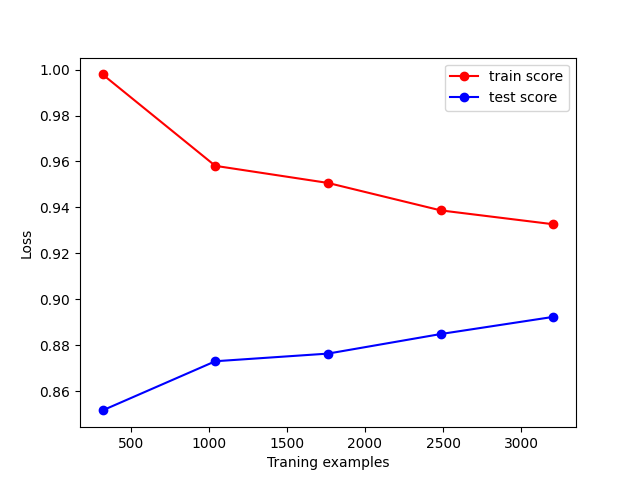
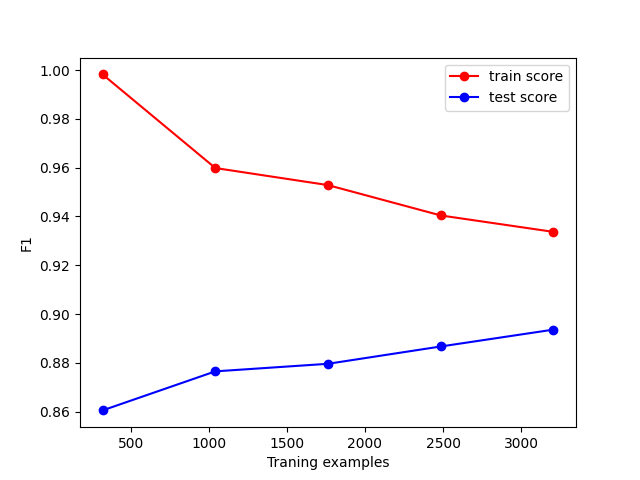
update

diff --git a/B1/model_b1.py b/B1/model_b1.py
@@ -13,7 +13,7 @@ class Model_B1:
         self.model = RandomForestClassifier(n_estimators=50, n_jobs=-1)
         if self.search:
             self.parameters = {'n_estimators':(50,100,150,200)}
-            self.clf = GridSearchCV(RandomForestClassifier(), self.parameters, scoring='f1_micro')
+            self.clf = GridSearchCV(RandomForestClassifier(), self.parameters, scoring='f1_micro',cv = 5)
             
     def train(self, x, y):
         """
@@ -36,7 +36,7 @@ class Model_B1:
             print('k-fold scores:', scores)
         
         train_sizes, train_scores, test_scores = learning_curve(
-            self.model, x, y, cv=3, n_jobs = -1, train_sizes=np.linspace(.1, 1.0, 5), scoring='accuracy'
+            self.model, x, y, cv=3, n_jobs = -1, train_sizes=np.linspace(.1, 1.0, 5), scoring='f1_micro'
         )
         plot_learning_curve(train_sizes, train_scores, test_scores, 'B1_learning_curve')
         

diff --git a/A2/model_a2.py b/A2/model_a2.py
@@ -41,11 +41,11 @@ class Model_A2:
             print('best parameters:', self.clf.best_params_)
         else:
             self.model = self.model.fit(x, y)
-            scores = cross_val_score(self.model, x, y, cv = 5, scoring = 'accuracy')
+            scores = cross_val_score(self.model, x, y, cv = 5, scoring = 'f1')
             print('k-fold scores:', scores)
             
         train_sizes, train_scores, test_scores = learning_curve(
-            self.model, x, y, cv=3, n_jobs = -1, train_sizes=np.linspace(.1, 1.0, 5), scoring='accuracy'
+            self.model, x, y, cv=3, n_jobs = -1, train_sizes=np.linspace(.1, 1.0, 5), scoring='f1'
         )
         plot_learning_curve(train_sizes, train_scores, test_scores, 'A2_learning_curve')
         

diff --git a/B2/model_b2.py b/B2/model_b2.py
@@ -11,7 +11,7 @@ class Model_B2:
         self.model = RandomForestClassifier(n_estimators=150, n_jobs=-1)
         if self.search:
             self.parameters = {'n_estimators':(50,100,150,200)}
-            self.clf = GridSearchCV(RandomForestClassifier(), self.parameters, scoring='f1_micro')
+            self.clf = GridSearchCV(RandomForestClassifier(), self.parameters, scoring='f1_micro',cv = 5)
         
     def train(self, x, y):
         """

diff --git a/utils/comm.py b/utils/comm.py
@@ -11,7 +11,7 @@ def plot_learning_curve(train_sizes, train_scores, test_scores, save_file):
     plt.plot(train_sizes, train_scores_mean, 'o-', color='r', label='train score')
     plt.plot(train_sizes, test_scores_mean, 'o-', color = 'b', label = 'test score')
     plt.xlabel('Traning examples')
-    plt.ylabel('Loss')
+    plt.ylabel('F1')
     plt.legend(loc='best')
     plt.savefig(save_file)
     plt.close()
